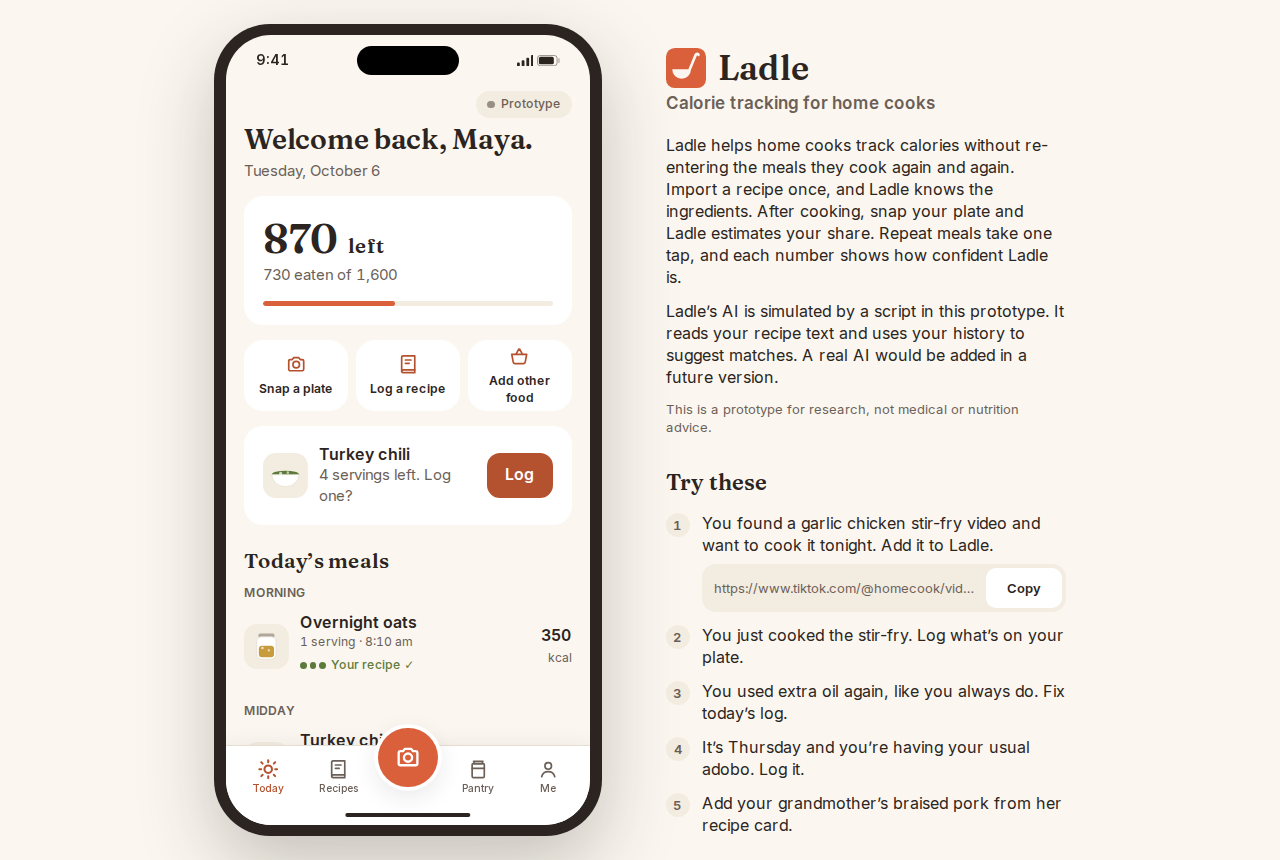
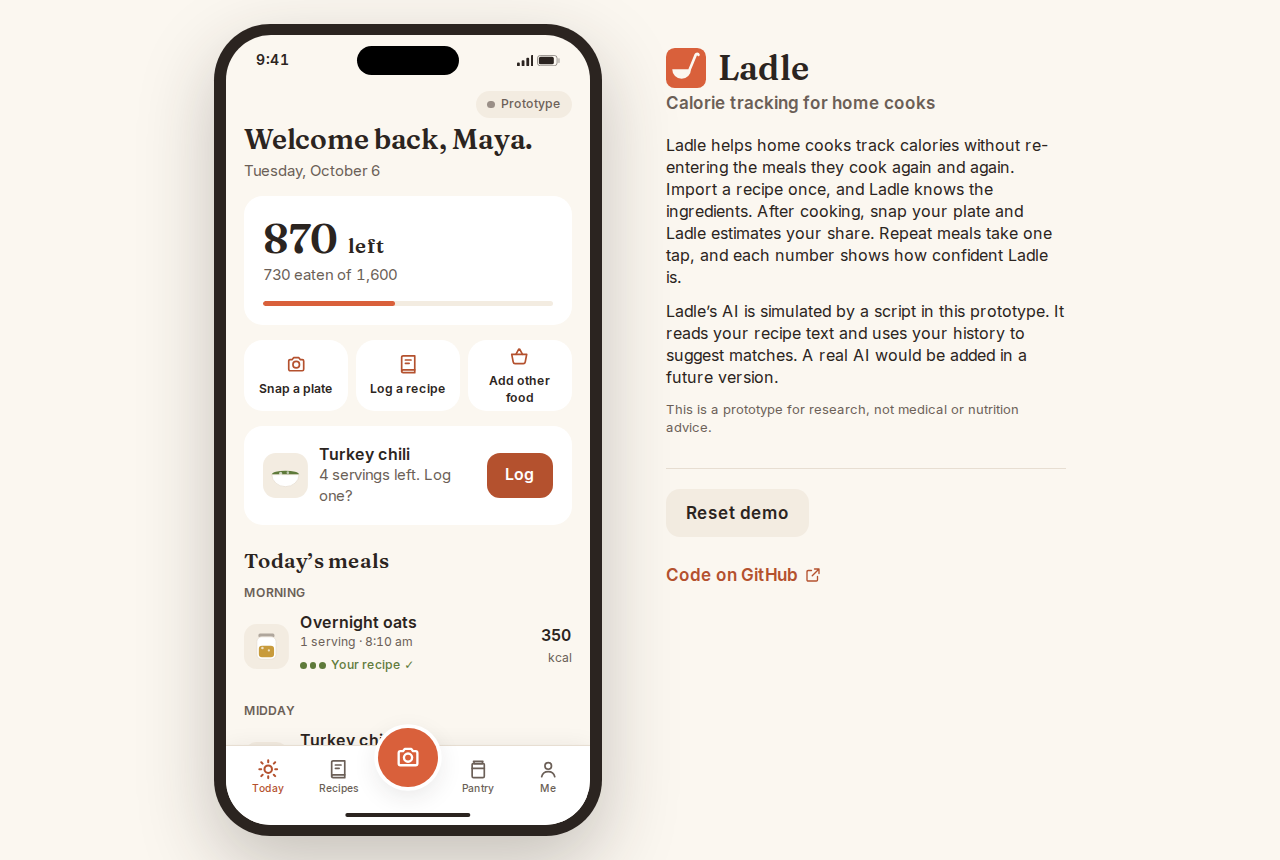
Remove the Try these list
The side panel and Me → About no longer list the five test tasks or the
demo link chip. The tasks stay in the README and in the hidden next-task
test control.

Claude-Session: https://claude.ai/code/session_01LsDNFtF6pYSU5kKkU5sT6Q

diff --git a/components/AboutContent.tsx b/components/AboutContent.tsx
@@ -1,37 +1,8 @@
 // The "About this prototype" content: shown in the desktop side panel and,
 // on phones, in Me → About this prototype.
 
-import {
-  DEMO_LINK,
-  DISCLAIMER,
-  PROTOTYPE_NOTE,
-  REPO_URL,
-  SUMMARY,
-  TRY_THESE,
-} from "@/lib/content";
-import { CopyChip } from "./CopyChip";
+import { DISCLAIMER, PROTOTYPE_NOTE, REPO_URL, SUMMARY } from "@/lib/content";
 import { ExternalIcon } from "./icons";
-
-export function TryThese() {
-  return (
-    <ol className="space-y-3">
-      {TRY_THESE.map((task, i) => (
-        <li key={task.id} className="flex gap-3">
-          <span
-            aria-hidden="true"
-            className="text-caption tabular mt-px flex size-6 shrink-0 items-center justify-center rounded-full bg-surface-2 font-semibold text-ink-2"
-          >
-            {i + 1}
-          </span>
-          <div className="min-w-0 flex-1 space-y-2">
-            <p className="text-body">{task.prompt}</p>
-            {task.showDemoLink && <CopyChip text={DEMO_LINK} label="demo video link" />}
-          </div>
-        </li>
-      ))}
-    </ol>
-  );
-}
 
 export function AboutLinks({ caseStudyUrl }: { caseStudyUrl: string }) {
   const linkClass =

diff --git a/lib/content.ts b/lib/content.ts
@@ -29,17 +29,3 @@ export const HOW_AI_WORKS: string[] = [
   "Plate photos: Ladle can’t see food. It suggests the recipe you most likely made, from what you cooked or opened recently and what you usually eat at this time. The photo only measures your share.",
   "Restaurant meals and snacks use typical values, so they’re always rough estimates.",
 ];
-
-/** The five usability-test tasks, written as friendly prompts for visitors. */
-export const TRY_THESE: { id: string; prompt: string; showDemoLink?: boolean }[] = [
-  {
-    id: "T1",
-    prompt:
-      "You found a garlic chicken stir-fry video and want to cook it tonight. Add it to Ladle.",
-    showDemoLink: true,
-  },
-  { id: "T2", prompt: "You just cooked the stir-fry. Log what’s on your plate." },
-  { id: "T3", prompt: "You used extra oil again, like you always do. Fix today’s log." },
-  { id: "T4", prompt: "It’s Thursday and you’re having your usual adobo. Log it." },
-  { id: "T5", prompt: "Add your grandmother’s braised pork from her recipe card." },
-];

diff --git a/components/SidePanel.tsx b/components/SidePanel.tsx
@@ -1,12 +1,12 @@
 "use client";
 
-// Desktop and tablet only: a calm panel beside the phone with what Ladle is,
-// what to try, and a Reset demo button.
+// Desktop and tablet only: a calm panel beside the phone with what Ladle is
+// and a Reset demo button.
 
 import { useRouter } from "next/navigation";
 import { useState } from "react";
 import { actions } from "@/lib/store";
-import { AboutLinks, AboutSummary, TryThese } from "./AboutContent";
+import { AboutLinks, AboutSummary } from "./AboutContent";
 import { LadleMark } from "./icons";
 import { Button } from "./ui";
 
@@ -34,9 +34,6 @@ export function SidePanel({ caseStudyUrl }: { caseStudyUrl: string }) {
       <div className="mt-5">
         <AboutSummary />
       </div>
-
-      <h2 className="text-title mt-8 mb-4">Try these</h2>
-      <TryThese />
 
       <div className="mt-8 border-t border-line pt-5">
         {!confirming ? (

diff --git a/app/(app)/me/page.tsx b/app/(app)/me/page.tsx
@@ -6,7 +6,7 @@
 
 import { useRouter } from "next/navigation";
 import { useState } from "react";
-import { AboutLinks, AboutSummary, TryThese } from "@/components/AboutContent";
+import { AboutLinks, AboutSummary } from "@/components/AboutContent";
 import { ChevronIcon } from "@/components/icons";
 import { ProfileSheet } from "@/components/ProfileSheet";
 import { Sheet } from "@/components/Sheet";
@@ -157,8 +157,6 @@ export default function MePage() {
 
       <Sheet open={aboutOpen} onClose={() => setAboutOpen(false)} title="About this prototype">
         <AboutSummary />
-        <h3 className="text-headline mt-6 mb-3">Try these</h3>
-        <TryThese />
         <div className="mt-6">
           <AboutLinks caseStudyUrl={caseStudyUrl} />
         </div>

diff --git a/CLAUDE.md b/CLAUDE.md
@@ -360,13 +360,14 @@ Motion, empty and error states everywhere; dark theme check; accessibility pass 
 - **Checking the live site:** this cloud computer's network usually can't open vercel.app, so Ran checks the preview/public links on their phone and laptop.
 - **Stack:** Next.js 16 (App Router, Turbopack), React 19, TypeScript strict, Tailwind CSS 4. Next.js 16 differs from older versions: read `node_modules/next/dist/docs/` before using an API (see AGENTS.md).
 - **`npm audit` warnings:** the "high" warnings come from `eslint-config-next` (code-checking tool used only while building, never shipped to visitors). `npm audit fix --force` would downgrade it to an old version, so don't run it.
-- **Where things live:** design tokens (colors, radii, motion, type scale) in `app/globals.css`; seed data in `lib/seed.ts`; browser storage in `lib/storage.ts` (localStorage with in-memory fallback); app state and actions in `lib/store.ts` (`useLadle()`, `actions`); fixed wording (summary, disclaimer, privacy, "Try these") in `lib/content.ts`. Screens are in `app/(app)/` (`/`, `/recipes`, `/camera`, `/pantry`, `/me`), sharing `components/AppFrame.tsx` (phone frame on >768px, side panel, tab bar). Bottom sheets: `components/Sheet.tsx` (no `alert()`/`confirm()` anywhere).
+- **Where things live:** design tokens (colors, radii, motion, type scale) in `app/globals.css`; seed data in `lib/seed.ts`; browser storage in `lib/storage.ts` (localStorage with in-memory fallback); app state and actions in `lib/store.ts` (`useLadle()`, `actions`); fixed wording (summary, disclaimer, privacy, prototype note, how the AI works) in `lib/content.ts`. Screens are in `app/(app)/` (`/`, `/recipes`, `/camera`, `/pantry`, `/me`), sharing `components/AppFrame.tsx` (phone frame on >768px, side panel, tab bar). Bottom sheets: `components/Sheet.tsx` (no `alert()`/`confirm()` anywhere).
 - **Contrast decision (approved by Ran, Milestone 1):** the brief's terracotta `#D9603B` is 3.7:1 with white text (AA needs 4.5:1). It stays the brand color (camera button, icon, progress bar); `--accent-strong` `#B4512E` is used for text links and for buttons with white text. Mustard `#C89B3C` (2.6:1) and warm gray `#9A8F87` (3.2:1) are too light for text on white, so confidence labels will use them for the dots only (Milestone 2).
 - **Milestone 2 pieces:** logging rules (confidence, portions, meal groups by clock, add/edit/remove log keeping confirmed counts, last-eaten and batch servings in step) in `lib/logic.ts`; `components/ConfidenceIndicator.tsx` (dots + label + explainer sheet; mustard text uses `--estimate-ink` for contrast), `DishIllustration.tsx` (flat SVG placeholders), `Toast.tsx` (message + Undo), `PortionPicker.tsx` (½ 1 1½ 2 Custom in ¼ steps), `LogDetailSheet.tsx`, `useLongPress.ts`. Every recipe log counts as one confirmation (3+ → "Your recipe ✓"); deleting/undoing a log takes it back.
 - **Milestone 3 pieces (import, Demo mode):** scripted demo results and link/caption checks (now in `lib/ai/scripted.ts`); the extraction JSON shape in `lib/importTypes.ts` (same shape the Milestone 6 API will return); the in-progress import in `lib/draft.ts` (saved in browser storage so a reload keeps answers). `components/ImportSheet.tsx` (Link / Text / Photo), `app/(app)/recipes/new/page.tsx` ("reading the recipe" + review: questions, editable ingredients, sticky totals; Save needs every question answered and every "Check this line" confirmed), `app/(app)/recipes/[id]/page.tsx` (recipe card). The tab bar is hidden on `/camera` and `/recipes/new`. Imported recipes get `key` = slug of the name (e.g. `garlic-chicken-stir-fry`, matches the seeded T3 fix). Demo recipe card image `public/demo/recipe-card.jpg` was rendered from HTML with the Caveat and Reenie Beanie fonts (SIL Open Font License).
 - **Milestone 4 pieces (plate camera, Demo mode):** `app/(app)/camera/page.tsx` (live viewfinder via getUserMedia — auto-starts on touch devices only, laptops get "Turn on camera"; shutter, Choose photo, Use sample photo; "Looking at your plate…"; result panel with Not this? / It's something new / portion chips / Log it). `lib/plate.ts` saves the photo (downscaled to ~1,200 px JPEG) and draft *before* analysis and deletes it after logging; Today shows "A plate photo is waiting" if one is left. `demoAnalyzePlate` in `lib/demo.ts`: the sample matches the recipe with key `garlic-chicken-stir-fry` (1 serving); before T1 it suggests importing; the user's own photos in Demo mode go to "Which recipe is this?". Sample image `public/demo/plate-stir-fry.jpg` is Ran's own photo (resized to 905×1200 and stripped of EXIF metadata with `sharp`); plate photos are shown unoptimized so a replacement with the same file name shows straight away. "Today was different?" shows a placeholder until Milestone 5.
 - **Milestone 5 pieces (quick fixes and learning):** `lib/fixes.ts` (the five fix kinds, their options with pot and plate calorie effects, `applyToRecipe` for "Always" with a change-history line, the Demo swap list and "Something else" examples, and `pendingSuggestion` — the same "once" fix twice since the last Always/Not now → "You usually … Update your recipe?"). `applyFix` / `resolveSuggestion` in `lib/logic.ts`; "once" fixes are stored as log `adjustments` (included in the log's kcal) and as `Fix` records with `logId` (deleting/undoing the log removes them). A pending suggestion turns "Your recipe ✓" into "Good estimate". UI: `components/QuickFixSheet.tsx`, the "Today was different?" chips in `LogDetailSheet.tsx`, the camera result (fix → logs the meal with the change), and a suggestion card on the recipe page. Seed fix has `detail: "+1 tbsp"`; older saved data is upgraded on load in `lib/store.ts`.
 - **Phone mock-up size (Ran's request):** on screens wider than 768 px the frame is always 414×868 (a 390×844 screen) on every page; on short screens the whole phone is scaled with CSS `zoom: var(--frame-zoom)`, set by an inline script in `app/layout.tsx` before the first paint (min 0.6). From 960 px wide the phone is sticky at the top beside the scrolling side panel. Never size the frame from its content.
+- **No "Try these" list (Ran's request, after Milestone 8):** the side panel and Me → About show only the summary, the AI note, the disclaimer, Reset demo and links. The five tasks live in the README and the hidden "next test task" control. Don't add the list back.
 - **No welcome pop-up (Ran's request, after Milestone 7):** the first visit opens straight on Today. The welcome sheet was removed; the disclaimer and privacy text live in About and on the Me tab. Don't bring back a first-visit pop-up.
 - **Desktop background** is the same cream as the app (`--desk`), so links in the side panel keep AA contrast.
 - **CASE_STUDY_URL** is read when the site is built, so after changing it in Vercel, redeploy. Ran has no case study link yet, so it stays empty and the case study buttons are hidden.

diff --git a/README.md b/README.md
@@ -28,20 +28,20 @@ You start as Maya, a home cook with six saved recipes and two meals logged today
 
 | Recipe card | Pantry | Add other food | On a laptop |
 | --- | --- | --- | --- |
-| ![Recipe card with totals, servings and ingredients](docs/screenshots/recipe-card.png) | ![Pantry with batches counting down](docs/screenshots/pantry.png) | ![Add other food: barcode, search or restaurant dish](docs/screenshots/add-food.png) | ![The app in a phone frame beside the "Try these" panel](docs/screenshots/desktop.png) |
+| ![Recipe card with totals, servings and ingredients](docs/screenshots/recipe-card.png) | ![Pantry with batches counting down](docs/screenshots/pantry.png) | ![Add other food: barcode, search or restaurant dish](docs/screenshots/add-food.png) | ![The app in a phone frame beside a short about panel](docs/screenshots/desktop.png) |
 
-## Try these
+## Usability test tasks
 
-These are the five usability-test tasks, also listed beside the phone on a laptop.
+The prototype supports these five tasks for moderated sessions:
 
 1. You found a garlic chicken stir-fry video and want to cook it tonight. Add it
-   to Ladle (use the demo link in the side panel or under Recipes → Add recipe).
+   to Ladle (Recipes → Add recipe → Use demo link).
 2. You just cooked the stir-fry. Log what's on your plate (Camera → Use sample photo).
 3. You used extra oil again, like you always do. Fix today's log.
 4. It's Thursday and you're having your usual adobo. Log it.
 5. Add your grandmother's braised pork from her recipe card (Add recipe → Photo → Use example card).
 
-You can also bring your own recipes, links and photos.
+Visitors can also bring their own recipes, links and photos.
 
 ## The AI in this prototype is simulated
 
@@ -94,8 +94,8 @@ data** removes it.
 
 ## Resetting the demo
 
-- **Me → Reset demo** brings back Maya's starting data (the beside-the-phone
-  panel on a laptop has the same button).
+- **Me → Reset demo** brings back Maya's starting data (the panel beside the
+  phone on a laptop has the same button).
 - **Me → Delete all data** empties Ladle completely.
 
 ### Test controls (for usability sessions)
